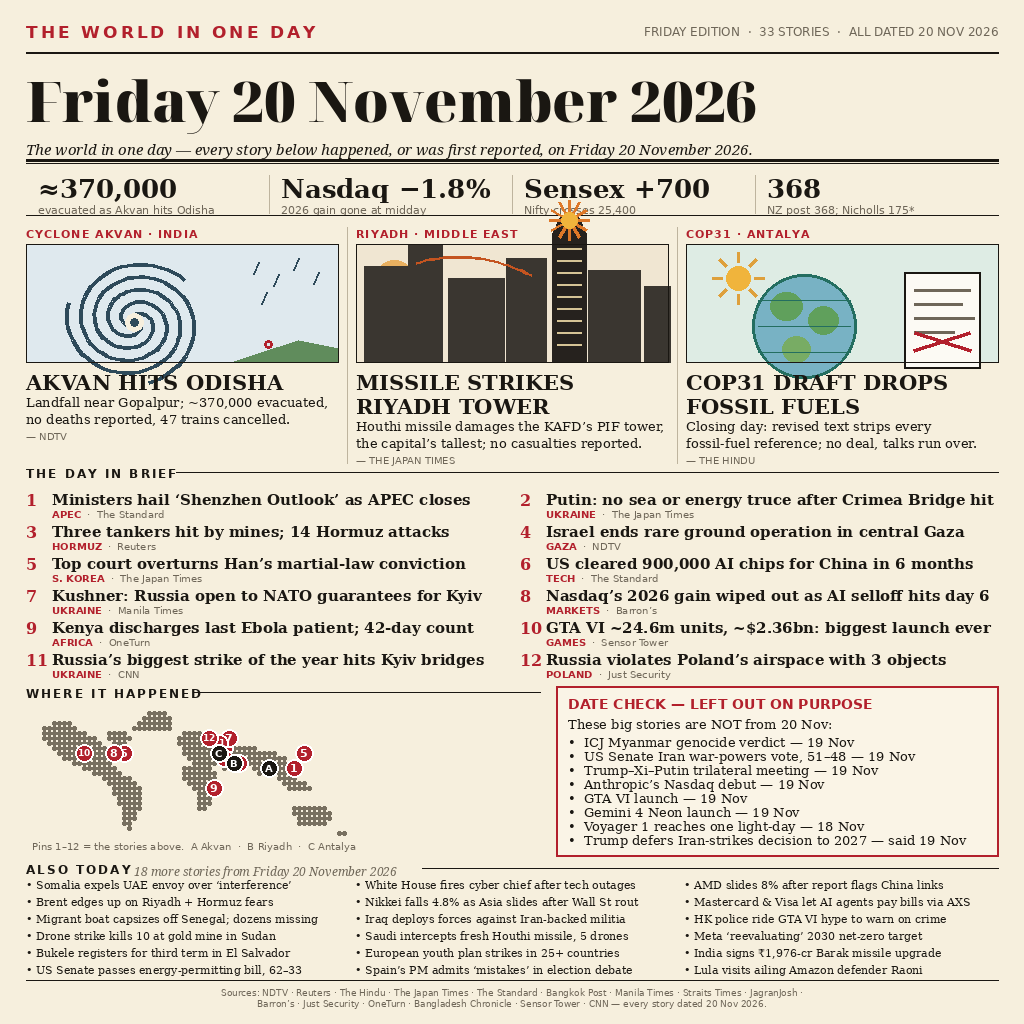
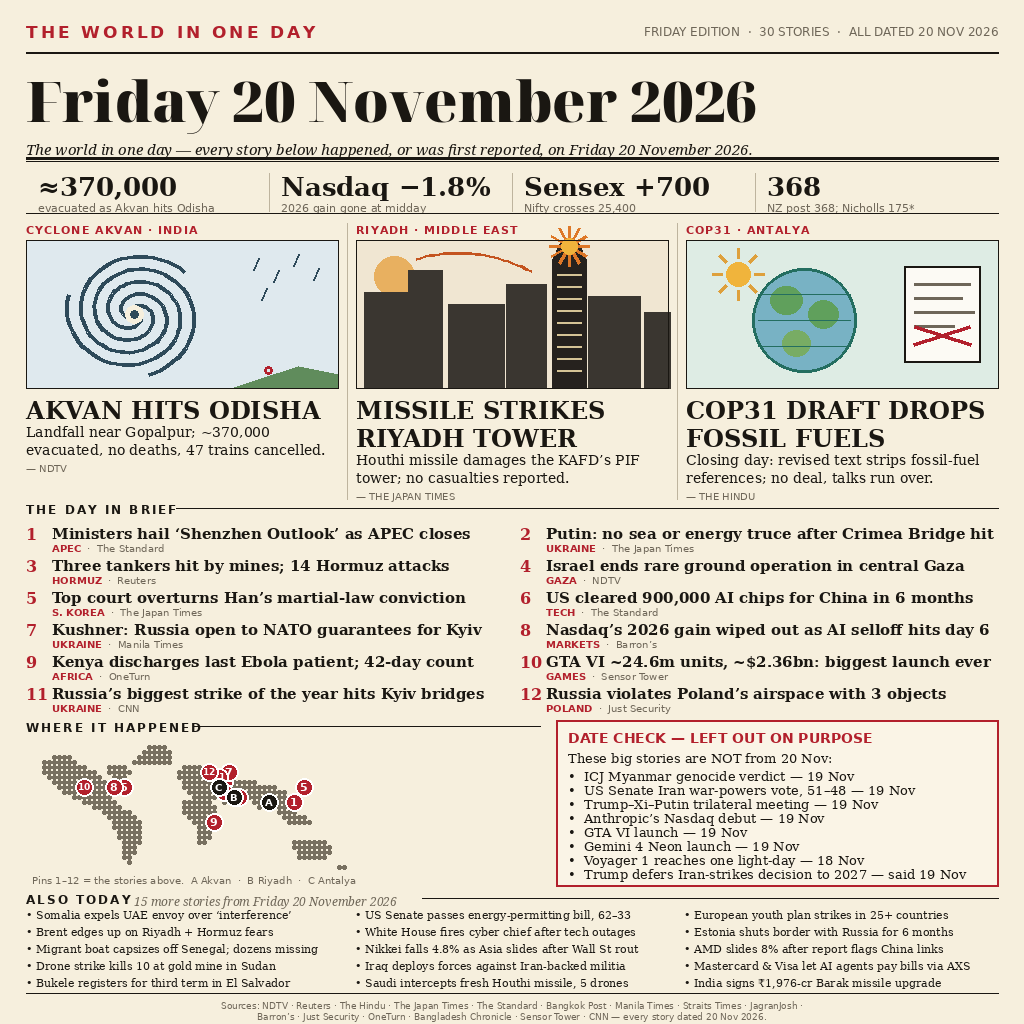
news-image-20261120 refresh 2: 30 stories, dominant leads — art 148px, headlines 24pt, Estonia border story

Changed region(s): [[0.0312, 0.1562, 0.9688, 1.0]]

diff --git a/draw.py b/draw.py
@@ -1,10 +1,15 @@
 # draw.py — draws the entry.png front page for make.fun news-image-20261120.
 # Pure Pillow (no network): every headline, number and source below was checked
 # against the research file's verified 20 Nov 2026 list.
-# Refresh round 1: the 40-story final scored LOWER than the 33-story v1
-# (974,723 vs 977,797) — density hurt legibility at ~300 px. This version cuts
-# back to 33 stories, with larger type and more whitespace, and drops the two
-# briefs whose dates were risky (Anthropic debut = 19 Nov; Dow rout = 19 Nov).
+# Refresh round 2: refresh 1 scored 980,686 (#648) — up from the final's
+# 974,723. Keep its clean 33-story structure and legibility, but make the
+# 3 leads dominant (taller art, bigger headlines) and cut the 4 weakest
+# briefs (Spain PM, Meta net-zero, Lula/Raoni, HK police GTA stunt) for
+# one verified late story (Estonia shuts its Russia border, 6 months).
+# 30 stories total. Late check ~00:20 WIB 21 Nov: COP31 still no deal
+# (overtime), Kyiv toll confirmed 9 killed / 110+ missiles (CNN); the
+# Italy Meta fine (14 Nov) and the FAA ground stop (13 Nov) were checked
+# and REJECTED as 20-Nov news — both are date traps in 20-Nov briefings.
 # Run: python3 draw.py  -> writes entry.png (1024x1024, PNG, < 1 MiB).
 from PIL import Image, ImageDraw, ImageFont
 import math
@@ -112,21 +117,21 @@ LEADS = [
     {
         "tag": "CYCLONE AKVAN \u00b7 INDIA",
         "headline": "AKVAN HITS ODISHA",
-        "standfirst": "Landfall near Gopalpur; ~370,000 evacuated, no deaths reported, 47 trains cancelled.",
+        "standfirst": "Landfall near Gopalpur; ~370,000 evacuated, no deaths, 47 trains cancelled.",
         "source": "NDTV",
         "art": "cyclone",
     },
     {
         "tag": "RIYADH \u00b7 MIDDLE EAST",
         "headline": "MISSILE STRIKES RIYADH TOWER",
-        "standfirst": "Houthi missile damages the KAFD\u2019s PIF tower, the capital\u2019s tallest; no casualties reported.",
+        "standfirst": "Houthi missile damages the KAFD\u2019s PIF tower; no casualties reported.",
         "source": "THE JAPAN TIMES",
         "art": "tower",
     },
     {
         "tag": "COP31 \u00b7 ANTALYA",
         "headline": "COP31 DRAFT DROPS FOSSIL FUELS",
-        "standfirst": "Closing day: revised text strips every fossil-fuel reference; no deal, talks run over.",
+        "standfirst": "Closing day: revised text strips fossil-fuel references; no deal, talks run over.",
         "source": "THE HINDU",
         "art": "globe",
     },
@@ -158,10 +163,11 @@ PINS = [
 # Lead markers on the map: (letter, lon, lat) — A Akvan, B Riyadh, C Antalya.
 LEAD_PINS = [("A", 85, 20), ("B", 47, 25), ("C", 31, 37)]
 
-# 18 briefs (was 25): cut the 7 weakest / riskiest. Cut for date discipline:
-# Anthropic's debut was 19 Nov (its +17% close was Thursday) and the Dow
-# -1,084 rout was Thursday's close. Cut as soft/local: Modi FICCI, ICMR,
-# state banks, Modi meets the Waleses, India hockey.
+# 15 briefs (was 18): cut the 4 weakest — Spain's PM "mistakes" (soft/local),
+# Meta "reevaluating" net-zero (soft corporate), Lula/Raoni visit (soft),
+# HK police GTA stunt (local, duplicates grid #10) — and add one verified
+# late story: Estonia shuts its Russia border for 6 months (Just Security,
+# 20 Nov; follows the Poland airspace violation, grid #12).
 BRIEFS = [
     ("Somalia expels UAE envoy over \u2018interference\u2019", "Bangkok Post"),
     ("Brent edges up on Riyadh + Hormuz fears", "Reuters"),
@@ -174,13 +180,10 @@ BRIEFS = [
     ("Iraq deploys forces against Iran-backed militia", "Just Security"),
     ("Saudi intercepts fresh Houthi missile, 5 drones", "Bangladesh Chronicle"),
     ("European youth plan strikes in 25+ countries", "OneTurn"),
-    ("Spain\u2019s PM admits \u2018mistakes\u2019 in election debate", "Manila Times"),
+    ("Estonia shuts border with Russia for 6 months", "Just Security"),
     ("AMD slides 8% after report flags China links", "The Standard"),
     ("Mastercard & Visa let AI agents pay bills via AXS", "Straits Times"),
-    ("HK police ride GTA VI hype to warn on crime", "The Standard"),
-    ("Meta \u2018reevaluating\u2019 2030 net-zero target", "Bangkok Post"),
     ("India signs \u20b91,976-cr Barak missile upgrade", "JagranJosh"),
-    ("Lula visits ailing Amazon defender Raoni", "Bangkok Post"),
 ]
 
 DATE_CHECK = [
@@ -196,10 +199,12 @@ DATE_CHECK = [
 
 # ---------------------------------------------------------------- art panels
 def draw_cyclone(d, box):
-    """Flat-vector cyclone spiral over a coastline. No text inside the art."""
+    """Flat-vector cyclone spiral over a coastline. No text inside the art.
+    The spiral is centred in the box, so a taller box just gives it more sky."""
     x0, y0, x1, y1 = box
+    h = y1 - y0
     d.rectangle(box, fill=SKY)
-    cx, cy = x0 + 108, y0 + 78
+    cx, cy = x0 + 108, y0 + h // 2
     # spiral arms: three Archimedean spirals, rotated apart
     for start in (0, 120, 240):
         pts = []
@@ -210,15 +215,15 @@ def draw_cyclone(d, box):
         d.line(pts, fill=BLUE, width=4)
     d.ellipse([cx - 9, cy - 9, cx + 9, cy + 9], fill=PAPER)
     d.ellipse([cx - 4, cy - 4, cx + 4, cy + 4], fill=BLUE)
-    # coastline, bottom right
-    d.polygon([(x0 + 205, y1), (x0 + 235, y0 + 108), (x0 + 272, y0 + 96),
-               (x1, y0 + 104), (x1, y1)], fill=(96, 140, 92))
+    # coastline, bottom right — anchored to the box bottom
+    d.polygon([(x0 + 205, y1), (x0 + 235, y1 - 10), (x0 + 272, y1 - 22),
+               (x1, y1 - 14), (x1, y1)], fill=(96, 140, 92))
     # rain strokes, top right
     for rx, ry in [(x0 + 232, y0 + 18), (x0 + 252, y0 + 30), (x0 + 272, y0 + 14),
                    (x0 + 292, y0 + 28), (x0 + 240, y0 + 48)]:
         d.line([(rx, ry), (rx - 5, ry + 12)], fill=BLUE, width=2)
-    # landfall marker
-    d.ellipse([x0 + 238, y0 + 96, x0 + 246, y0 + 104], outline=RED, width=3)
+    # landfall marker on the coastline
+    d.ellipse([x0 + 238, y1 - 22, x0 + 246, y1 - 14], outline=RED, width=3)
 
 def draw_tower(d, box):
     """Flat-vector Riyadh skyline: PIF tower, missile arc, burst. No text."""
@@ -267,8 +272,8 @@ def draw_globe(d, box):
                 (sx + 26 * math.cos(a), sy + 26 * math.sin(a))],
                fill=(222, 160, 60), width=3)
     d.ellipse([sx - 12, sy - 12, sx + 12, sy + 12], fill=(240, 180, 60))
-    # globe
-    gx, gy, gr = x0 + 118, y0 + 82, 52
+    # globe — centred vertically in the box
+    gx, gy, gr = x0 + 118, y0 + (y1 - y0) // 2 + 6, 52
     d.ellipse([gx - gr, gy - gr, gx + gr, gy + gr], fill=(120, 178, 196))
     d.ellipse([gx - gr, gy - gr, gx + gr, gy + gr], outline=TEAL, width=3)
     # land blobs (stylised continents)
@@ -279,8 +284,8 @@ def draw_globe(d, box):
     for dy in (-26, 0, 26):
         d.arc([gx - gr, gy - gr, gx + gr, gy + gr], 200, 340, fill=TEAL, width=1)
         d.line([(gx - gr + 6, gy + dy), (gx + gr - 6, gy + dy)], fill=TEAL, width=1)
-    # draft document, right side
-    dx, dy, dw, dh = x0 + 218, y0 + 28, 76, 96
+    # draft document, right side — centred vertically in the box
+    dx, dy, dw, dh = x0 + 218, y0 + (y1 - y0 - 96) // 2, 76, 96
     d.rectangle([dx, dy, dx + dw, dy + dh], fill=(252, 250, 244),
                 outline=(26, 23, 18), width=2)
     for i, lw in enumerate((56, 48, 60, 40)):
@@ -329,7 +334,7 @@ def render():
     f_name = font(F_SANS_BOLD, 17)
     letterspace(d, (MX, y), "THE WORLD IN ONE DAY", f_name, RED, 3)
     f_ed = font(F_SANS, 12)
-    ed = "FRIDAY EDITION  \u00b7  33 STORIES  \u00b7  ALL DATED 20 NOV 2026"
+    ed = "FRIDAY EDITION  \u00b7  30 STORIES  \u00b7  ALL DATED 20 NOV 2026"
     d.text((W - MX, y + 2), ed, font=f_ed, fill=GREY, anchor="ra")
     y += 30
     d.line([(MX, y), (W - MX, y)], fill=INK, width=2)
@@ -344,7 +349,7 @@ def render():
     d.text((MX, y), "The world in one day \u2014 every story below happened, or was first "
                      "reported, on Friday 20 November 2026.",
            font=f_sub, fill=INK)
-    y += 22
+    y += 20
     d.line([(MX, y), (W - MX, y)], fill=INK, width=3)
     y += 3
     d.line([(MX, y), (W - MX, y)], fill=INK, width=1)
@@ -372,12 +377,14 @@ def render():
         d.text((cx + 12, y + 30), lab_lines[0], font=f_stat_l, fill=GREY)
     y = stat_top + 42
     d.line([(MX, y), (W - MX, y)], fill=INK, width=1)
-    y += 12
+    y += 10
 
-    # ---- three illustrated leads (headlines one size up, standfirsts up too)
+    # ---- three illustrated leads: the dominant band. Art taller (148),
+    # headlines 24pt, standfirsts 14pt — the top story must be unmistakable
+    # at 300 px, so the leads read as the page's picture, not as texture.
     f_tag = font(F_SANS_BOLD, 11)
-    f_head = font(F_SERIF_BOLD, 21)
-    f_stand = font(F_SERIF, 13)
+    f_head = font(F_SERIF_BOLD, 24)
+    f_stand = font(F_SERIF, 14)
     f_src = font(F_SANS, 10)
     lead_top = y
     for i, lead in enumerate(LEADS):
@@ -385,26 +392,26 @@ def render():
         ly = lead_top
         letterspace(d, (x, ly), lead["tag"], f_tag, RED, 1)
         ly += 17
-        ART[lead["art"]](d, (x, ly, x + COLW, ly + 118))
-        d.rectangle([x, ly, x + COLW, ly + 118], outline=INK, width=1)
-        ly += 126
+        ART[lead["art"]](d, (x, ly, x + COLW, ly + 148))
+        d.rectangle([x, ly, x + COLW, ly + 148], outline=INK, width=1)
+        ly += 156
         for ln in fit_lines(d, lead["headline"], f_head, COLW, 2):
             d.text((x, ly), ln, font=f_head, fill=INK)
-            ly += 24
+            ly += 28
         for ln in fit_lines(d, lead["standfirst"], f_stand, COLW, 2):
             d.text((x, ly), ln, font=f_stand, fill=INK)
-            ly += 17
+            ly += 18
         d.text((x, ly + 2), "\u2014 " + lead["source"], font=f_src, fill=GREY)
         if i:
-            d.line([(x - 9, lead_top), (x - 9, lead_top + 236)],
+            d.line([(x - 9, lead_top), (x - 9, lead_top + 276)],
                    fill=(190, 180, 158), width=1)
-    y = lead_top + 239
+    y = lead_top + 279
 
     # ---- section header
     f_sec = font(F_SANS_BOLD, 12)
     letterspace(d, (MX, y), "THE DAY IN BRIEF", f_sec, INK, 2)
     d.line([(MX + 150, y + 6), (W - MX, y + 6)], fill=INK, width=1)
-    y += 24
+    y += 22
 
     # ---- numbered grid: 12 stories, 2 columns x 6 rows, roomier rows
     # Row = headline line (number + headline) + tag/source line beneath.
@@ -450,7 +457,7 @@ def render():
            "Pins 1\u201312 = the stories above.  A Akvan  \u00b7  B Riyadh  \u00b7  C Antalya",
            font=font(F_SANS, 10), fill=GREY)
     # date check box (items one size up, roomier spacing)
-    d.rectangle([dc_x, row_top, dc_x + dc_w, row_top + 170], fill=(250, 244, 230),
+    d.rectangle([dc_x, row_top, dc_x + dc_w, row_top + 166], fill=(250, 244, 230),
                 outline=RED, width=2)
     f_dc_h = font(F_SANS_BOLD, 14)
     d.text((dc_x + 12, row_top + 10), "DATE CHECK \u2014 LEFT OUT ON PURPOSE",
@@ -463,18 +470,18 @@ def render():
     for item in DATE_CHECK:
         d.text((dc_x + 12, dy), "\u2022  " + item, font=f_dc, fill=INK)
         dy += 14
-    y = row_top + 176
+    y = row_top + 172
 
-    # ---- ALSO TODAY: 18 briefs, 3 columns x 6 rows, larger type
+    # ---- ALSO TODAY: 15 briefs, 3 columns x 5 rows, larger type
     letterspace(d, (MX, y), "ALSO TODAY", f_sec, INK, 2)
-    d.text((MX + 108, y + 1), "18 more stories from Friday 20 November 2026",
+    d.text((MX + 108, y + 1), "15 more stories from Friday 20 November 2026",
            font=font(F_SERIF_IT, 12), fill=GREY)
     d.line([(MX + 396, y + 6), (W - MX, y + 6)], fill=INK, width=1)
     y += 16
-    briefs = BRIEFS[:18]
+    briefs = BRIEFS[:15]
     f_brief = font(F_SERIF, 11)
     bcol_w = (CW - 2 * 16) // 3
-    per_col = 6
+    per_col = 5
     max_by = y
     for ci in range(3):
         bx = MX + ci * (bcol_w + 16)
